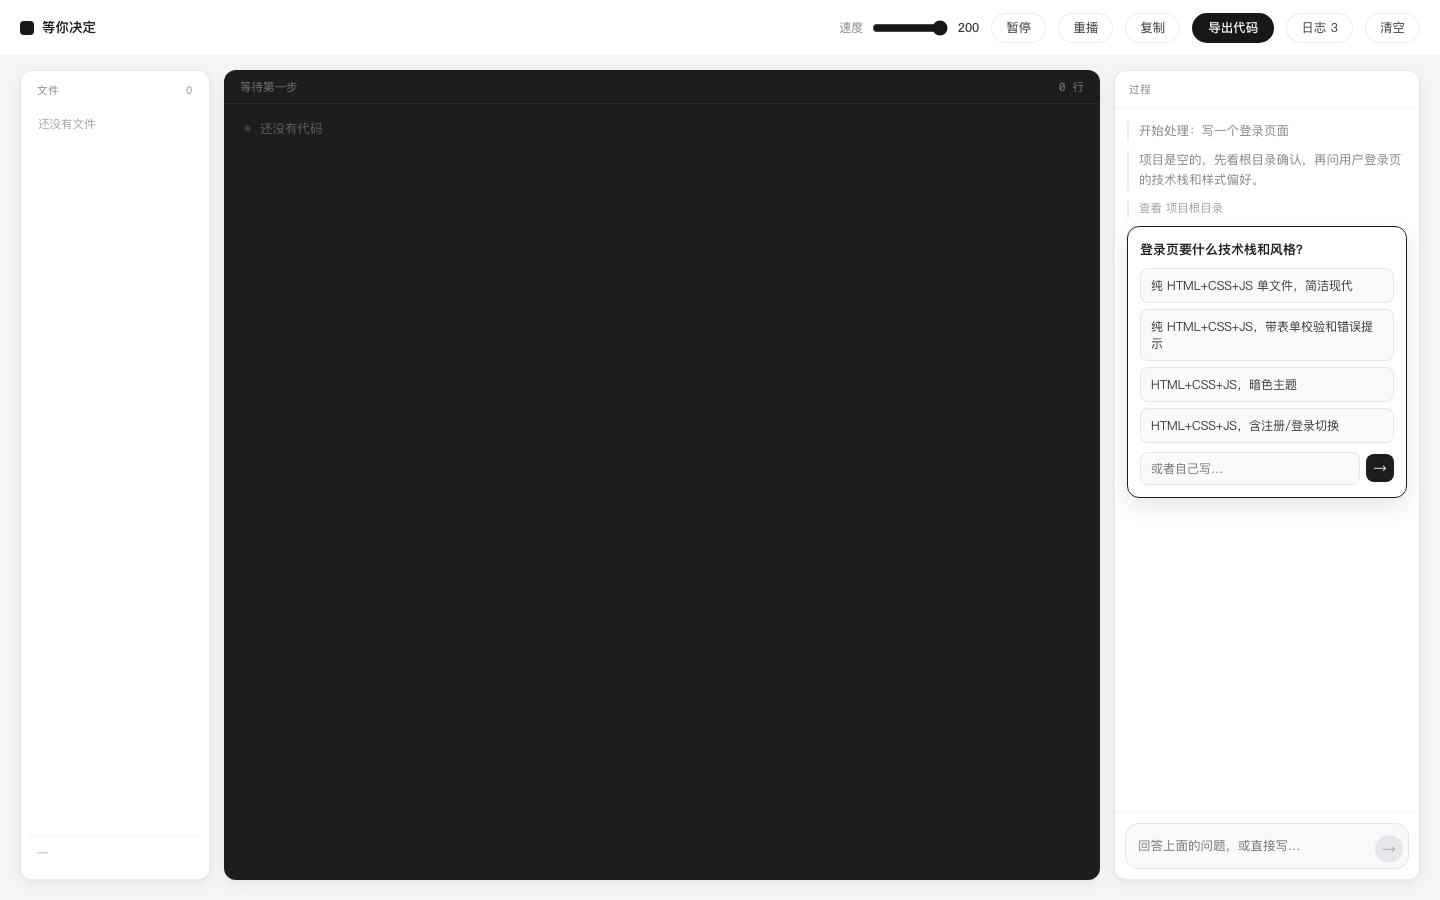
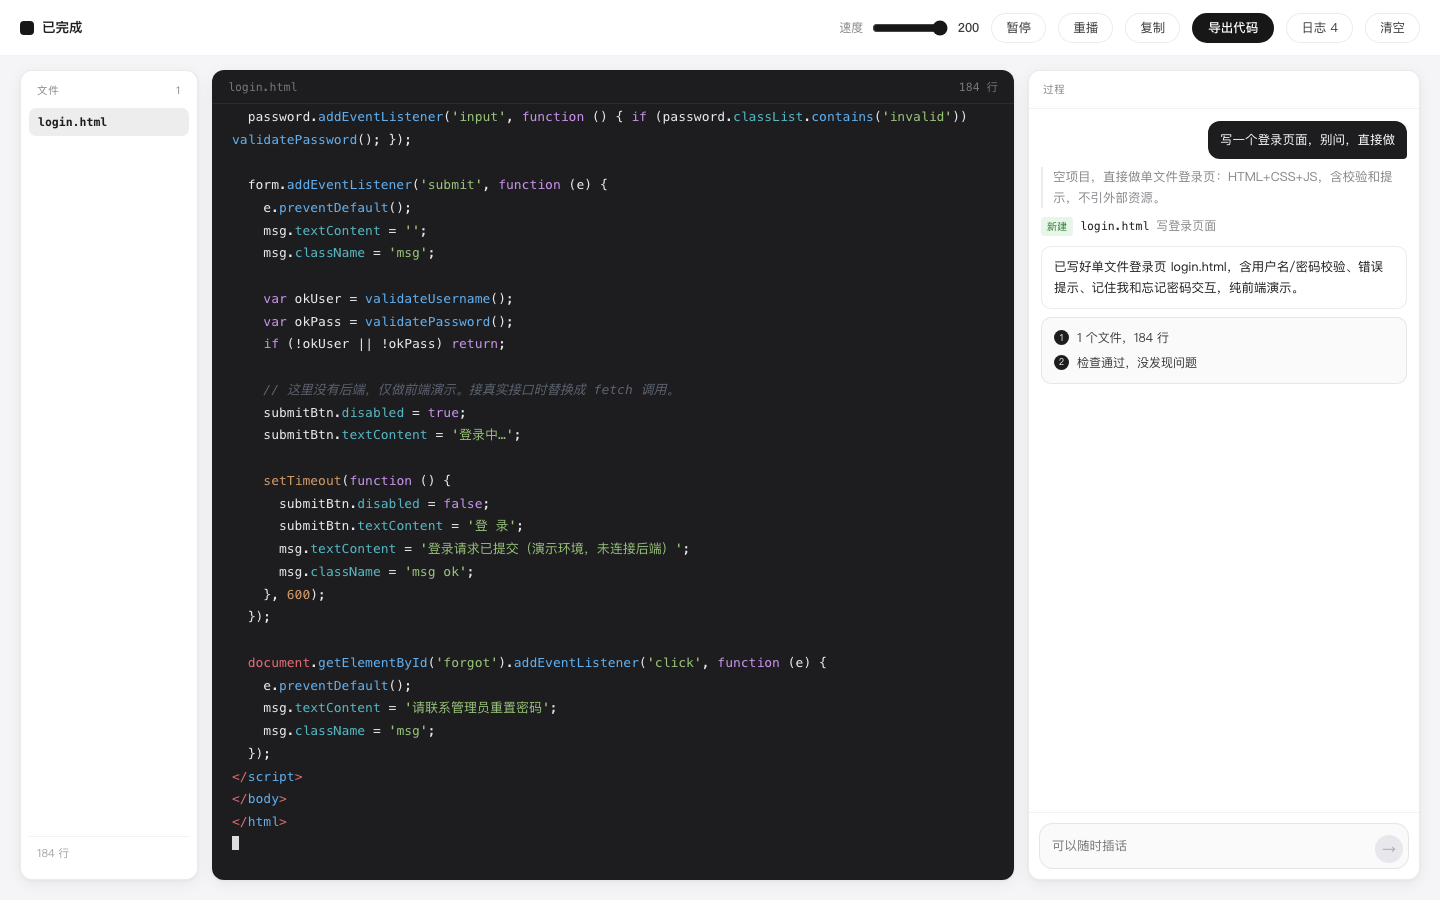
fix: 编辑被应用两次、错误信息重复、用户消息被当成"补充"
1) 编辑应用两次（真 bug）
   nextRound 先拿 res.files 覆盖了本地文件，然后播放器又对"已经改过"的内容
   再执行一次 edit；find 找不到就往文件末尾追加，于是底部多出一段 CSS。
   导出的代码是对的，因为导出用的是服务端那份。
   现在服务端结果只存 serverFilesRef，播放完再以播放器为准同步；
   万一还是对不上，直接用服务端内容，绝不往末尾硬加。

2) 网络错误显示两遍
   时间线一条、气泡一条。去掉气泡那一条。

3) 用户消息被当成"（补充）"
   之前任何后续发言都渲染成 think 行，看着像 agent 自己说的。
   现在用户消息是右侧深色气泡；只有运行中插话才标"插话"。

另外：换文件、播放中断时都同步一次缓冲区，避免两边不一致。
单测 + 端到端都验证过：本地应用 edit 的结果与服务端逐字节一致。

diff --git a/web/src/App.tsx b/web/src/App.tsx
@@ -30,7 +30,8 @@ type Event =
   | { action: "delete"; path: string; label: string }
   | { action: "error"; text: string }
   | { action: "finish"; text: string }
-  | { action: "decline"; text: string; suggestions: string[] };
+  | { action: "decline"; text: string; suggestions: string[] }
+  | { action: "user"; text: string; interrupt?: boolean };
 
 type Item = { id: number; kind: Event["action"]; ev: Event };
 
@@ -120,6 +121,7 @@ export default function App() {
   const filesRef = useRef<Record<string, string>>({});
   const roundRef = useRef(0);
   const startFilesRef = useRef<Record<string, string>>({});
+  const serverFilesRef = useRef<Record<string, string>>({});
   const itemsRef = useRef<Item[]>([]);
   const idRef = useRef(0);
   const pendingCardRef = useRef<number | null>(null);
@@ -153,6 +155,7 @@ export default function App() {
     p.onUpdate = (s) => setSnap(s);
     p.onFinish = () => {};
     p.onExhausted = () => {
+      filesRef.current = p.files();
       if (waitingRef.current) return;
       void nextRound();
     };
@@ -183,7 +186,7 @@ export default function App() {
     roundRef.current = 0;
     waitingRef.current = false;
     messagesRef.current = [{ role: "user", content: value }];
-    push({ action: "think", text: `开始处理：${value}` } as Event);
+    push({ action: "user", text: value } as Event);
 
     setRunning(true);
     runningRef.current = true;
@@ -206,7 +209,9 @@ export default function App() {
       });
       roundRef.current += 1;
       messagesRef.current = res.messages;
-      if (res.files) filesRef.current = res.files;
+      // 服务端算好的结果先存着，播放完再以播放器为准同步，
+      // 否则 edit 会被应用两次（第二次找不到原文就往末尾追加）
+      if (res.files) serverFilesRef.current = res.files;
 
       await handle(res.event as Event);
     } catch (e) {
@@ -316,6 +321,23 @@ export default function App() {
   /** 把一次文件动作演出来，演完继续循环。 */
   const playEvent = (ev: Extract<Event, { action: "write" | "edit" | "delete" }>) => {
     const p = playerRef.current!;
+
+    if (ev.action === "edit") {
+      const before = filesRef.current[ev.path] ?? "";
+      if (!before.includes(ev.find)) {
+        // 原文对不上：不要往末尾硬加，直接用服务端算好的内容
+        const truth = serverFilesRef.current[ev.path];
+        note("edit.mismatch", `${ev.path} 里没找到原文，改用服务端结果`);
+        if (typeof truth === "string") {
+          const fixed = { ...filesRef.current, [ev.path]: truth };
+          filesRef.current = fixed;
+          p.setBuffers(fixed);
+          setSnap((prev) => ({ ...prev, active: ev.path }));
+        }
+        window.setTimeout(() => void nextRound(), 240);
+        return;
+      }
+    }
     const files: Record<string, string> = { ...filesRef.current };
     files[ev.path] = files[ev.path] ?? "";
 
@@ -390,7 +412,7 @@ export default function App() {
   const answerAsk = async (value: string) => {
     const text = value.trim();
     if (!text || !asking) return;
-    push({ action: "think", text: `你选了：${text}` } as Event);
+    push({ action: "user", text } as Event);
     messagesRef.current = [
       ...messagesRef.current,
       { role: "user", content: text },
@@ -414,9 +436,8 @@ export default function App() {
     }
 
     if (runningRef.current) {
-      // 运行中插话：等这一轮结束再继续，先把话记进上下文
       messagesRef.current = [...messagesRef.current, { role: "user", content: value }];
-      push({ action: "think", text: `（插话）${value}` } as Event);
+      push({ action: "user", text: value, interrupt: true } as Event);
       return;
     }
 
@@ -426,7 +447,7 @@ export default function App() {
     }
 
     messagesRef.current = [...messagesRef.current, { role: "user", content: value }];
-    push({ action: "think", text: `（补充）${value}` } as Event);
+    push({ action: "user", text: value } as Event);
     setRunning(true);
     runningRef.current = true;
     await nextRound();
@@ -784,7 +805,6 @@ export default function App() {
             )}
 
             {running && !asking && <div className="bubble assistant typing">…</div>}
-            {error && <div className="bubble error">{error}</div>}
           </div>
           <div className="chat-foot">{composer(asking ? "回答上面的问题，或直接写…" : "可以随时插话")}</div>
         </aside>
@@ -842,6 +862,15 @@ function countLines(files: Record<string, string>) {
 
 function TimelineItem({ item, live }: { item: Item; live?: boolean }) {
   const ev = item.ev;
+
+  if (ev.action === "user") {
+    return (
+      <div className="tl user">
+        {ev.interrupt && <span className="user-tag">插话</span>}
+        <span>{ev.text}</span>
+      </div>
+    );
+  }
 
   if (ev.action === "think") {
     return <div className="tl think">{ev.text}</div>;

diff --git a/web/src/styles.css b/web/src/styles.css
@@ -1562,3 +1562,26 @@ button {
   border-radius: 999px;
   border: 1px solid var(--line);
 }
+
+/* ---- 用户消息 ---- */
+.tl.user {
+  align-self: flex-end;
+  max-width: 88%;
+  display: flex;
+  align-items: baseline;
+  gap: 6px;
+  padding: 9px 12px;
+  border-radius: 12px 12px 4px 12px;
+  background: var(--ink);
+  color: #fff;
+  font-size: 12.5px;
+  line-height: 1.6;
+}
+
+.user-tag {
+  font-size: 10px;
+  padding: 1px 5px;
+  border-radius: 4px;
+  background: rgba(255, 255, 255, 0.18);
+  flex: 0 0 auto;
+}

diff --git a/web/src/player.ts b/web/src/player.ts
@@ -119,6 +119,14 @@ export class Player {
     this.timer = null;
   }
 
+  /** 直接设定缓冲区内容（外部校正时用，不播放）。 */
+  setBuffers(files: Record<string, string>) {
+    this.buffers = { ...files };
+    this.pending = "";
+    this.pendingPath = "";
+    this.emit();
+  }
+
   /** 立刻把剩下的步骤全部应用完（打断时用，保证文件是完整的）。 */
   finishNow() {
     this.stop();
